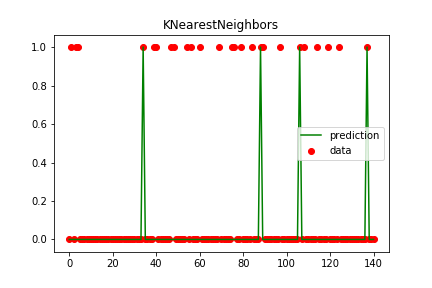
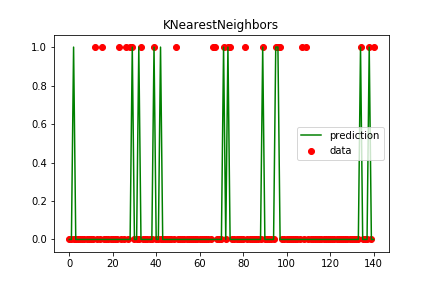
Refactor the code. Code finished.

Changed region(s): [[0.1505, 0.125, 0.8727, 0.8438], [0.2106, 0.8125, 0.2407, 0.8438]]

diff --git a/src/features/supervisedLearning.py b/src/features/supervisedLearning.py
@@ -1,7 +1,7 @@
 from sklearn import preprocessing
 from sklearn.model_selection import train_test_split
 from sklearn.naive_bayes import GaussianNB
-from sklearn.metrics import zero_one_loss
+from sklearn.metrics import hamming_loss
 import numpy as np
 import matplotlib.pyplot as plt
 from sklearn import neighbors
@@ -29,18 +29,11 @@ class SupervisedLearning:
         model = GaussianNB()
         model.fit(self.X_Train, self.Y_Train)
         
-        predicion = model.predict(self.X_Test)
-        zol = zero_one_loss(self.Y_Test, predicion)
+        prediction = model.predict(self.X_Test)
+        zol = hamming_loss(self.Y_Test, prediction)
         print("Error measure {}".format(zol))
         
-        xx = np.stack(i for i in range(len(self.Y_Test)))
-        plt.scatter(xx, self.Y_Test, c='r', label='data')
-        plt.plot(xx, predicion, c='g', label='prediction')
-        plt.axis('tight')
-        plt.legend()
-        plt.title("Gaussian NaiveBayes")
-        plt.savefig(r'../../reports/figures/NaiveBayesPrediction.png')
-        plt.show()
+        self.PlotResults("NaiveBayes", prediction)
         
     def KNearestNeighborsAlgorithm(self):
         min_zol = 99999999
@@ -49,7 +42,7 @@ class SupervisedLearning:
             knn = neighbors.KNeighborsClassifier(n_neighbors)
             knn.fit(self.X_Train, self.Y_Train)
             prediction = knn.predict(self.X_Test)
-            zol = zero_one_loss(self.Y_Test, prediction)
+            zol = hamming_loss(self.Y_Test, prediction)
             if zol.item() < min_zol:
                 min_zol = zol
                 best_neighbors = n_neighbors
@@ -60,29 +53,24 @@ class SupervisedLearning:
         prediction = knn.predict(self.X_Test)
         print("Error measure {}".format(min_zol))
         
-        xx = np.stack(i for i in range(len(self.Y_Test)))
-        plt.scatter(xx, self.Y_Test, c='r', label='data')
-        plt.plot(xx, prediction, c='g', label='prediction')
-        plt.axis('tight')
-        plt.legend()
-        plt.title("KNearestNeighbors")
-        plt.savefig(r'../../reports/figures/KNearestNeighborsPrediction.png')
-        plt.show()
+        self.PlotResults("KNearestNeighbors", prediction)
     
     def RandomForestAlgorithm(self):
         rf = RandomForestClassifier(n_estimators=1000, random_state=42)
         rf.fit(self.X_Train, self.Y_Train)
         prediction = rf.predict(self.X_Test)
         
-        zol = zero_one_loss(self.Y_Test, prediction)
+        zol = hamming_loss(self.Y_Test, prediction)
         print("Error measure {}".format(zol))
         
+        self.PlotResults("RandomForest", prediction)
+    
+    def PlotResults(self, title, prediction):
         xx = np.stack(i for i in range(len(self.Y_Test)))
         plt.scatter(xx, self.Y_Test, c='r', label='data')
         plt.plot(xx, prediction, c='g', label='prediction')
         plt.axis('tight')
         plt.legend()
-        plt.title("RandomForestClassifier")
-        plt.savefig(r'../../reports/figures/RandomForestClassifier.png')
+        plt.title(title)
+        plt.savefig(r'../../reports/figures/{}Prediction.png'.format(title))
         plt.show()
-

diff --git a/src/features/data_parsing_moriarty.py b/src/features/data_parsing_moriarty.py
@@ -11,27 +11,36 @@ class ParsingMoriarty:
     def MergeDataByUUID(self, characteristics):
         self.data_set = self.data_set.loc[:, self.data_set.columns.str.contains('|'.join(characteristics))]
         self.data_set["SessionType"] = 0
-        self.data_set["ActionType"] = 0
 
-        indexes = []
         for index in range(len(self.data_set_moriarty["UUID"])):
+            # Find when the attack occurred and include the attack in the dataset
             self.merged = self.data_set.query("UUID <= " + \
                                      str(self.data_set_moriarty["UUID"][index]) +\
                                      " <= UUID + 5000")
             if not self.merged.empty:
                 self.data_set_moriarty["UUID"][index] = self.merged["UUID"].values[0]
+                
+                # Get the index of the corresponding attack inside the dataset 
+                # and set its attack column to a true value
                 index = self.data_set["UUID"].values.tolist().index(self.merged["UUID"].values[0])
-                indexes.append(index)
                 self.data_set["SessionType"][index] = 1
                     
     def MergedWithNumericColumns(self, characteristics):
         self.merged_numeric = self.merged[characteristics]
     
-    def GetTargets(self):
-        target = []
-        for i in range(len(self.merged["SessionType"])):
-            if "malicious" in self.merged["SessionType"][i]:
-                target.append(1)
-            else:
-                target.append(0)
-        return target
+    def CreateSupervisedDataset(self, number_of_non_attacks):
+        mydataset = pd.DataFrame(data=None, columns=self.data_set.columns)
+
+        # Select non-attacks and include them into the dataset
+        for i in range(300):
+            index = int(i * len(self.data_set) / number_of_non_attacks)
+            frames = [mydataset, self.data_set.iloc[[index]]]
+            mydataset = pd.concat(frames)
+        
+        # Select attacks and include them into the dataset
+        for i in range(len(self.data_set)):
+            if self.data_set["SessionType"][i] == 1:
+                frames = [mydataset, self.data_set.iloc[[i]]]
+                mydataset = pd.concat(frames)
+        return mydataset
+    

diff --git a/src/features/parse_moriarty.py b/src/features/parse_moriarty.py
@@ -1,5 +1,4 @@
 from data_parsing_moriarty import ParsingMoriarty
-import pandas as pd
 from supervisedLearning import SupervisedLearning
 
 path_to_data = r'C:\Users\Ivangarrera\Desktop\T4.csv'
@@ -10,26 +9,17 @@ parsing_moriarty = ParsingMoriarty(path_to_data, path_to_moriarty)
 characteristics = ["UUID", "Total_CPU", "TotalMemory_used_size", "Traffic_TotalRxBytes", 
                    "Traffic_TotalTxBytes", "Traffic_TotalWifiRxBytes", "Traffic_TotalWifiTxBytes", 
                    "procs_running", "connectedWifi_SSID"]
+
+# Merge Sherlock and Moriarty datasets, using the UUID column. We consider that
+# an attack 'a' (in the tx instant) has ocurred in the instant t1 if and only 
+# if, t1 <= tx <= t1 + 5000
 parsing_moriarty.MergeDataByUUID(characteristics)
-x = parsing_moriarty.data_set
-cuantosceros = 300
-mydataset = pd.DataFrame(data=None, columns=parsing_moriarty.data_set.columns)
 
-# Meter al dataset los no-virus
-for i in range(300):
-    index = int(i * len(parsing_moriarty.data_set) / cuantosceros)
-    frames = [mydataset, parsing_moriarty.data_set.iloc[[index]]]
-    mydataset = pd.concat(frames)
+# Create the dataset we are going to use to train and test the models
+supervised_dataset = parsing_moriarty.CreateSupervisedDataset(number_of_non_attacks=300)
+parsing_moriarty.merged = supervised_dataset.sort_values(["UUID"])
 
-# Meter al dataset los viruses
-for i in range(len(parsing_moriarty.data_set)):
-    if parsing_moriarty.data_set["SessionType"][i] == 1:
-        frames = [mydataset, parsing_moriarty.data_set.iloc[[i]]]
-        mydataset = pd.concat(frames)
-
-parsing_moriarty.merged = mydataset.sort_values(["UUID"])
-
-# Remove action and details columns
+# Remove action and details columns, because these columns aren't numeric
 characteristics = ["Total_CPU", "TotalMemory_used_size", "Traffic_TotalRxBytes", 
                    "Traffic_TotalTxBytes", "Traffic_TotalWifiRxBytes",
                    "Traffic_TotalWifiTxBytes", "procs_running"] 
